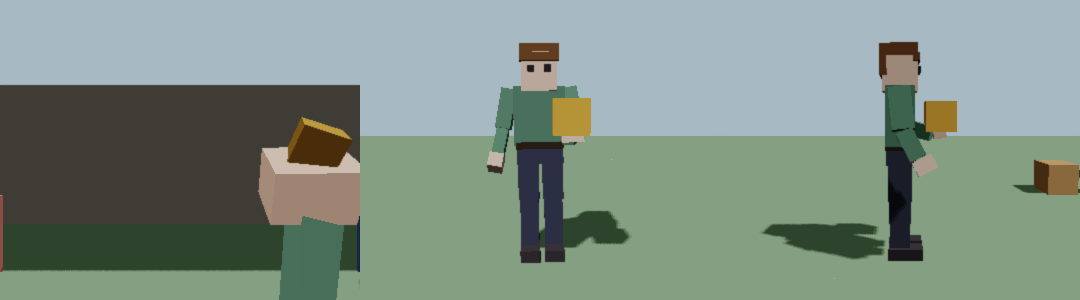
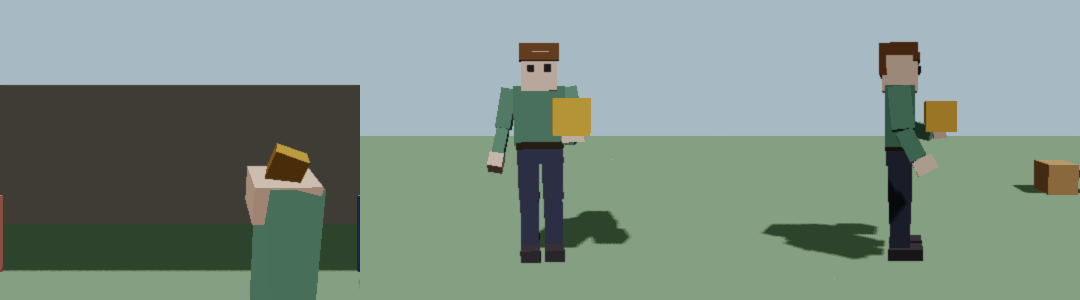
fp hand: Normal look tuned (smaller hand, in from the edge), both-arms honest, tests updated for new default, example scene, before/after/preset pictures, docs

Changed region(s): [[0.2139, 0.39, 0.3361, 1.0]]

diff --git a/engine/include/okay/Components/FirstPersonHands.hpp b/engine/include/okay/Components/FirstPersonHands.hpp
@@ -47,7 +47,7 @@ public:
             case Preset::Normal:
                 return "The arm is always in view (not only when you hold something): a hand and a forearm in your shirt colour that leaves the bottom of the screen. Left click swings it. A two-handed item uses both.";
             case Preset::BothArms:
-                return "Normal, but both arms are in view all the time, like a boxing stance.";
+                return "Normal, but whatever you hold is held in both hands, even a small one-handed item. With empty hands one arm shows (a two-arm empty stance is not built yet).";
             case Preset::RightHandOnly:
                 return "Normal, but only the right arm ever shows, even for a two-handed item.";
             case Preset::Minimal:
@@ -96,6 +96,10 @@ public:
         float elbowBend = 0.0f;           ///< degrees the elbow hint folds out (0 = the built-in hint)
         float reach = 0.0f;               ///< metres the grip is pushed forward
     };
+
+    /// The Normal look sits the hands a little further in from the screen edge (the right hand one
+    /// way, the left the other). Old look puts both back to zero.
+    FirstPersonHands() { right.position.x = -0.05f; left.position.x = 0.05f; }
 
     // ---- Player view (first person) ----
     Preset preset = Preset::Normal;       ///< the last preset applied (a label only)
@@ -156,6 +160,7 @@ public:
                 right.forearmThickness = left.forearmThickness = 0.07f;
                 right.matchShirt = left.matchShirt = false;
                 right.uniformScale = left.uniformScale = 1.0f;
+                right.position = left.position = Vec3{0, 0, 0};
                 break;
             default: break;
         }

diff --git a/tests/fp_hand_shot.cpp b/tests/fp_hand_shot.cpp
@@ -125,7 +125,8 @@ int main(int argc, char** argv) {
     if (argc < 2) { std::fprintf(stderr, "usage: fp_hand_shot <outdir> [old|normal]\n"); return 2; }
     const std::string outdir = argv[1];
     const std::string mode = argc > 2 ? argv[2] : "normal";
-    const char* cases[] = {"idle", "walk", "run", "swing", "hold", "holdwalk", "lookup", "lookdown", "crouch"};
+    std::vector<const char*> cases = {"idle", "walk", "run", "swing", "hold", "holdwalk", "lookup", "lookdown", "crouch"};
+    if (mode == "both" || mode == "right" || mode == "minimal") cases = {"idle", "hold"};
     for (const char* cs : cases) {
         Scene sc("FpShot");
         BuildWorld(sc);
@@ -138,6 +139,11 @@ int main(int argc, char** argv) {
             if (auto* h = player->GetComponent<FirstPersonHands>()) h->UseOldLook();
         } else if (mode == "normal") {
             if (auto* h = player->GetComponent<FirstPersonHands>()) h->UseNormalArms();
+        } else if (mode == "both" || mode == "right" || mode == "minimal") {
+            if (auto* h = player->GetComponent<FirstPersonHands>())
+                h->ApplyPreset(mode == "both" ? FirstPersonHands::Preset::BothArms
+                             : mode == "right" ? FirstPersonHands::Preset::RightHandOnly
+                                               : FirstPersonHands::Preset::Minimal);
         }
 #endif
         auto* fpc = player->GetComponent<FirstPersonController>();

diff --git a/tests/test_fp_hand.cpp b/tests/test_fp_hand.cpp
@@ -674,6 +674,7 @@ int main() {
         CHECK(!armActive(ch));
 
         auto* hands = player->AddComponent<FirstPersonHands>();
+        hands->UseOldLook();   // this block checks the old behaviour (fp_hand_normal checks the new default)
         for (int i = 0; i < 6; ++i) scene.Update(1.0f / 60.0f);
         CHECK(!armActive(ch));
         hands->showWhenEmpty = true;                 // a live edit, the way the inspector writes it
@@ -838,7 +839,7 @@ int main() {
         auto* got = player->GetComponent<FirstPersonHands>();
         CHECK(got);
         if (got) {
-            CHECK(!got->showWhenEmpty);          // ResetPlayerView put it back
+            CHECK(got->showWhenEmpty);           // ResetPlayerView put it back to the Normal default
             CHECK(got->holdMode == FirstPersonHands::HoldMode::Right);
             CHECK_NEAR(got->bobAmount, 1.0f, 1e-4f);
         }
@@ -849,7 +850,7 @@ int main() {
         if (got) {
             CHECK_NEAR(got->othersArmLift, 0.2f, 1e-4f);
             CHECK(got->left.sleeve);
-            CHECK_NEAR(got->right.position.x, 0.0f, 1e-4f);
+            CHECK_NEAR(got->right.position.x, -0.05f, 1e-4f);   // the Normal look sits the hand a little in from the edge
         }
     }
 

diff --git a/tests/test_player.cpp b/tests/test_player.cpp
@@ -993,7 +993,7 @@ int main() {
         settle(sc, 150);                               // arrive at the eyes despite the long blend
         CHECK(!pv->Blending());
         CHECK(cam->ignoreObject == player);
-        CHECK(ch->fpArmUp == 0.0f);                // nothing in the view until a hold
+        CHECK(ch->fpArmUp == 1.0f);                // the Normal look: the arm is in view with empty hands
         auto* hands = player->GetComponent<FirstPersonHands>();
         CHECK(hands);
         if (hands) hands->showWhenEmpty = true;
@@ -1262,7 +1262,7 @@ int main() {
         GameObject* player = sc.CreateGameObject("Player");
         auto* ch = player->AddComponent<Character>();
         ch->Apply();
-        player->AddComponent<FirstPersonHands>();   // showWhenEmpty stays false
+        player->AddComponent<FirstPersonHands>()->UseOldLook();   // Old look: showWhenEmpty is false
         auto* tp = player->AddComponent<ThirdPersonController>();
         tp->yaw = 0.0f; tp->pitch = 0.0f; tp->distance = 4.5f; tp->cameraHeight = 1.5f;
         tp->pivotDampingXZ = tp->pivotDampingY = 0.0f;

diff --git a/tests/test_fp_hand_normal.cpp b/tests/test_fp_hand_normal.cpp
@@ -100,6 +100,7 @@ int main() {
         CHECK_NEAR(p.right.forearmLength, 0.42f, 1e-5f);   // the old numbers
         CHECK_NEAR(p.right.forearmThickness, 0.07f, 1e-5f);
         CHECK_NEAR(p.right.uniformScale, 1.0f, 1e-5f);
+        CHECK_NEAR(p.right.position.x, 0.0f, 1e-6f);
         CHECK(p.preset == FirstPersonHands::Preset::OldLook);
         p.ApplyPreset(FirstPersonHands::Preset::Normal);
         CHECK(p.showWhenEmpty && p.right.forearm && p.right.matchShirt && p.swingOnClick);
@@ -170,6 +171,7 @@ int main() {
         Box b = OwnerPixels(n, W, H, r);
         std::printf("  [box] x %d..%d y %d..%d count %d\n", b.x0, b.x1, b.y0, b.y1, b.count);
         CHECK(b.count > 400);
+        CHECK(b.x1 < W - 12);                 // the whole arm is inside the view, not cut by the right edge
         CHECK(b.x0 > W / 3);                  // the lower right, not the middle of the view
         CHECK(b.y1 >= H - 2);                 // the arm leaves the bottom edge: it is connected, not floating
         CHECK(b.y0 > H / 3);                  // never fills the screen

diff --git a/tests/test_run_feel.cpp b/tests/test_run_feel.cpp
@@ -421,8 +421,8 @@ int main() {
         // Empty hands draw nothing. The shirt stays, so a look down is a solid shoulder.
         CHECK(!aCh->Part(HumanoidMotion::B_LUPARM)->firstPersonViewmodel);
         CHECK(!bCh->Part(HumanoidMotion::B_LUPARM)->firstPersonViewmodel);
-        CHECK(aCh->fpArmUp <= 0.05f);
-        CHECK(bCh->fpArmUp <= 0.05f);
+        CHECK(aCh->fpArmUp > 0.5f);   // the Normal look keeps the arm in view while walking
+        CHECK(bCh->fpArmUp > 0.5f);
         CHECK(aCh->Part(HumanoidMotion::B_TORSO)->firstPersonViewmodel);
         CHECK(bCh->Part(HumanoidMotion::B_TORSO)->firstPersonViewmodel);
 

diff --git a/engine/src/Components/Character.cpp b/engine/src/Components/Character.cpp
@@ -1621,7 +1621,8 @@ void Character::ApplyFirstPersonHandDrive(bool showLeftArm, bool showWhileRunnin
     const bool show = (holding || (h && h->showWhenEmpty)) && (!run || allowRun);
     fpArmBase = primary;
     fpArmUp = show ? 1.0f : 0.0f;
-    m_fpSecond = two;
+    // The two-hand pose is built around the held item, so with empty hands one arm shows.
+    m_fpSecond = two && holding;
 }
 
 void Character::PoseOwnerArm(const std::vector<Vec3>&) {

diff --git a/docs/try_it.md b/docs/try_it.md
@@ -841,8 +841,8 @@ front of the player, right a camera at the side). Details: [fp_hand.md](fp_hand.
 3. Walk up to a block (red cube, blue block, green box), press **E** to hold it. It sits in the hand. The green box is two-handed.
 4. The small picture at the top right is a second camera looking back at you: you should see a whole person with two arms, the
    held block in the hand and the arm swinging when you click. No floating hand there.
-5. Stop. Select **Player**, in the Inspector find **First Person Hands**, open **Preset** and pick Both arms, Right hand
-   only, Minimal or **Old look**; press Play each time. **Use normal first-person arms** brings the normal look back (Ctrl+Z also undoes it).
+5. Stop. Select **Player**, in the Inspector find **First Person Hands**, open **Preset** and pick Both arms (hold a block: both hands), Right hand
+   only, Minimal (just the hand block) or **Old look**; press Play each time. **Use normal first-person arms** brings the normal look back (Ctrl+Z also undoes it).
    **Open Preview** shows both views live as you change a preset.
 
 **Unverified.** Everything above is checked only by the tests (`ctest -R fp_hand`) and headless software renders on Linux.

diff --git a/docs/fp_hand.md b/docs/fp_hand.md
@@ -26,7 +26,7 @@ smaller; left click swings the real arm (so others see the swing too); a two-han
 | Preset | What it does |
 |---|---|
 | Normal (default) | Arm always in view, forearm in the shirt colour, click swings, both hands for two-handed items |
-| Both arms | Normal, but both arms are in view all the time |
+| Both arms | Normal, but whatever you hold is held in both hands. With empty hands one arm shows (a two-arm empty stance is not built yet) |
 | Right hand only | Normal, but only the right arm ever shows |
 | Minimal (hand only) | Just a small hand block, no forearm |
 | Old look | The behaviour before presets, for comparing: floating block, only while holding, no click swing |
